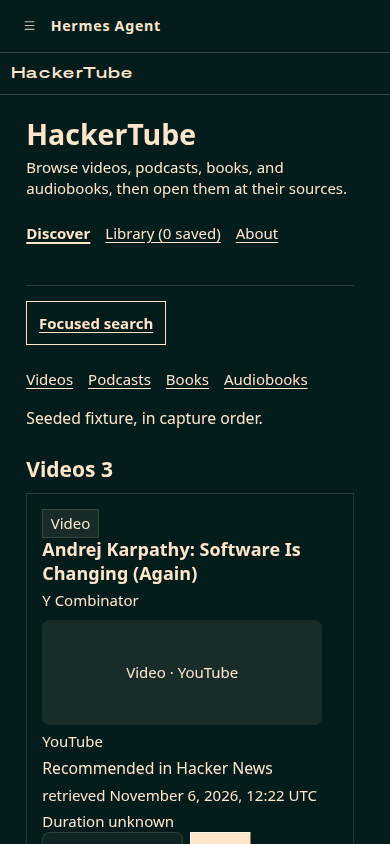
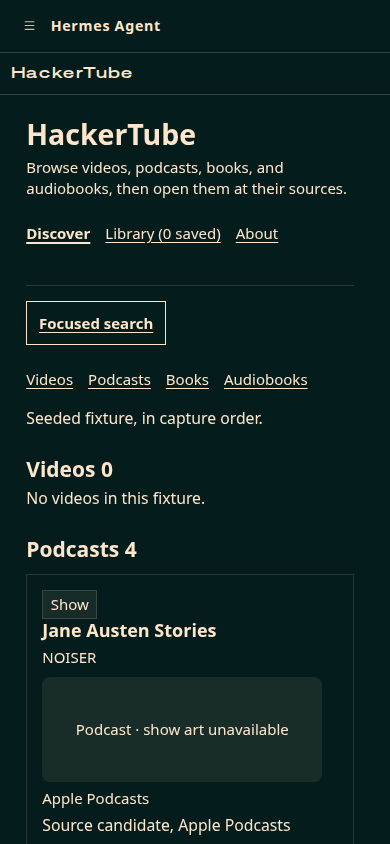
Replace dashboard receipts for the empty Videos section
Re-shoot the Hermes v0.23.0 walk after the be50886 fixture. Task 3.1 stays unchecked until the catalog package is wired in.

Changed region(s): [[0.0615, 0.5545, 0.7692, 0.8009], [0.0923, 0.8626, 0.8, 1.0]]

diff --git a/openspec/changes/hackertube-v1/verification.md b/openspec/changes/hackertube-v1/verification.md
@@ -17,7 +17,7 @@ Checked November 5, 2026 on the box with Node.js v24.22.1, OpenSpec 1.16.0, and 
 | Coverage checker fixtures | Missing PRD ID, dangling scenario, deferred P0, missing post-demo subset, non-P0 post-demo, unmapped scenario, partial subset under whole-row post-demo status, demo row deferring all scenarios, duplicate subset entry, out-of-row subset entry, missing subset reason, non-array subset, stale `specified` status, and reason without post-demo scenarios all rejected; the valid mixed-disposition R04 mapping accepted | Pass for 14 error paths and 1 positive fixture |
 | Script syntax | `python3 -m py_compile scripts/check_spec_coverage.py scripts/check_spec_coverage_fixtures.py` exited 0 | Pass |
 | Diff whitespace | `git diff --check` exited 0 | Pass |
-| Implementation progress | As of 2026-11-06, tasks 1.1, 1.2, 1.4, and 3.1 have receipts. Every other implementation task is open. | Dashboard page added. Search execution, ranking, and library persistence remain open. |
+| Implementation progress | As of 2026-11-06, tasks 1.1, 1.2, and 1.4 are checked. Task 3.1 has a fixture receipt and stays unchecked until the catalog package is wired. | Dashboard page reads the local fixture. Search execution, ranking, and library persistence remain open. |
 
 The machine-readable strict validation output is saved in planning-validation.json. Traceability.json maps the PRD IDs to scenario IDs. Its `demo` and `post-demo` statuses describe planning scope, not implementation results. Every delivery-mapped row has an explicit `post_demo_scenarios` array, including `[]` when all its scenarios remain in the demo. A `demo` row has at least one demo scenario. A `post-demo` row defers every mapped scenario. The checks do not establish runtime correctness, recommendation quality, source rights, or hackathon eligibility.
 
@@ -181,18 +181,18 @@ Tasks 1.1, 1.2, and 1.4 have receipts below. The other scenarios have no impleme
 |---|---|
 | Date | 2026-11-06 |
 | Host | Hermes Agent v0.23.0 (2026.9.24), commit `2bd378ed1b8d6bf2192cb26e0a55ff3091e6bd19`, Python 3.14.10, disposable profile `HERMES_HOME=/tmp/ht-profile` |
-| Scenarios | UI01, UI02, UI03, UI04, UI05, and UI06 pass on the running web dashboard. SEARCH01 is not executed. LIB02 persistence is not implemented. FEED ranking is not implemented. |
-| Procedure | Symlink `hackertube/` into the disposable profile, `hermes plugins validate hackertube --install-deps`, `hermes plugins enable hackertube`, `hermes dashboard --host 127.0.0.1 --port 9119 --no-open --skip-build`. Playwright drives Chromium at 1280x720 against `http://127.0.0.1:9119/hackertube`. The walk uses Tab, Shift+Tab, type, Enter, and Escape only. Axe runs on `.hackertube`. |
-| Result | Pass for UI01 through UI06. See the scenario notes below. |
+| Scenarios | UI01, UI02, UI03, UI04, UI05, and UI06 pass on the running web dashboard against the be50886 fixture. SEARCH01 is not executed. LIB02 persistence is not implemented. FEED ranking is not implemented. The task checkbox stays open until `hackertube_core` replaces this fixture. |
+| Procedure | Symlink `hackertube/` into the disposable profile, `hermes plugins validate hackertube --install-deps`, `hermes plugins enable hackertube`, restart `hermes dashboard --host 127.0.0.1 --port 9119 --no-open --skip-build`. Playwright drives Chromium at 1280x720 against `http://127.0.0.1:9119/hackertube`. The walk uses Tab, Shift+Tab, type, Enter, and Escape only. Axe runs on `.hackertube`. |
+| Result | Pass for UI01 through UI06 on this fixture. Task 3.1 remains unchecked. See the scenario notes below. |
 | Artifacts | [docs/receipts/dashboard/](../../../docs/receipts/dashboard/) |
 
 UI01. The host nav link `HackerTube` points at `/hackertube`. After `location.reload` the page heading is `HackerTube`. Screenshot: [02-after-reload.png](../../../docs/receipts/dashboard/02-after-reload.png).
 
-UI02. Videos 3, Podcasts 4, Books 4, and Audiobooks 4 render from the local fixture. There is no Hacker News card. Screenshots: [03-videos.png](../../../docs/receipts/dashboard/03-videos.png), [04-podcasts.png](../../../docs/receipts/dashboard/04-podcasts.png), [05-books.png](../../../docs/receipts/dashboard/05-books.png), [06-audiobooks.png](../../../docs/receipts/dashboard/06-audiobooks.png).
+UI02. Videos shows `Videos 0` and `No videos in this fixture.` Stored YouTube rows are ids and watch links in `unavailable_videos`, and the page does not render them as cards. Podcasts 4, Books 4, and Audiobooks 4 render from the fixture. There is no Hacker News card. Screenshots: [03-videos.png](../../../docs/receipts/dashboard/03-videos.png), [04-podcasts.png](../../../docs/receipts/dashboard/04-podcasts.png), [05-books.png](../../../docs/receipts/dashboard/05-books.png), [06-audiobooks.png](../../../docs/receipts/dashboard/06-audiobooks.png).
 
-UI03. The README credit, the About view, and [docs/marketplace-description.md](../../../docs/marketplace-description.md) name Andrej Karpathy and link to `https://karpathy.bearblog.dev/hacker-tube/`. About also says this is an independent Hermes adaptation. The credit is in the first viewport at 1280x720. Screenshot: [11-about.png](../../../docs/receipts/dashboard/11-about.png).
+UI03. The README credit, the About view, and [docs/marketplace-description.md](../../../docs/marketplace-description.md) name Andrej Karpathy and link to `https://karpathy.bearblog.dev/hacker-tube/`. About also says this is an independent Hermes adaptation. About names podcasts, books, and audiobooks, and does not say the page shows videos from YouTube. The credit is in the first viewport at 1280x720. Screenshot: [11-about.png](../../../docs/receipts/dashboard/11-about.png).
 
-UI04. Keyboard activation of Open at source opened `https://www.youtube.com/watch?v=LCEmiRjPEtQ`. The dashboard contained no `video`, `audio`, or `iframe`.
+UI04. Keyboard activation of Open at source opened `https://podcasts.apple.com/us/podcast/jane-austen-stories/id1840669662?uo=4`. The dashboard contained no `video`, `audio`, or `iframe`.
 
 UI05. With `?ht_unsafe=1` the page shows the refusal text for `javascript:alert(1)` and `https://127.0.0.1/private` and renders no link with those destinations. The same `destinationDecision` function gates every card. The default page does not show this check. Screenshot: [13-unsafe.png](../../../docs/receipts/dashboard/13-unsafe.png).
 
@@ -206,8 +206,8 @@ Ran 2 tests in 0.002s
 OK
 
 node --test tests/test_dashboard_page.js
-ℹ tests 11
-ℹ pass 11
+ℹ tests 12
+ℹ pass 12
 ℹ fail 0
 
 python3 scripts/check_spec_coverage.py
@@ -232,7 +232,7 @@ Not done in this task, and not claimed by the checkbox:
 
 - Focused search does not call a model, a search provider, or any host outside the dashboard. Submitting Search only reveals the results area. Tasks 4.1 and 4.2 own execution. During the walk, Search added no new network hosts.
 - Save, dismiss, and opened state live in the page visit. Reload clears them. Task 2.2 owns persistence. Dismiss does not remove a card. Task 3.2 owns ranking and feed exclusion.
-- The catalog is the local fixture behind `catalog_adapter.py`. It is not an import of `hackertube_core`. Book and audiobook covers are hotlinked to Open Library and LibriVox (`covers.openlibrary.org` and `archive.org`). YouTube and Apple art stay text fallbacks. Those image requests are not paid model or search calls, and Reddit was not called.
+- The catalog is the local fixture behind `catalog_adapter.py`, copied from pull request #3 at `be5088629f804239c96c891b23881366f416a6c5`. It is not an import of `hackertube_core`. Open Library book covers are hotlinked and the browser follows those URLs to cover files on archive.org. Audiobook covers and Apple artwork stay text fallbacks. Those image requests are not paid model or search calls, and Reddit was not called. Hacker News evidence in this fixture is not attached to a card. A unit test checks that an endorsement line stays on the item id it names.
 
 ## Release measurements
 

diff --git a/openspec/changes/hackertube-v1/tasks.md b/openspec/changes/hackertube-v1/tasks.md
@@ -18,7 +18,7 @@ Tasks 1.1, 1.2, and 1.4 are complete. The other implementation tasks are not. Gr
 
 ## 3. Deliver the dashboard and local discovery
 
-- [x] 3.1 Build the supported web page, four sections, library, About view, and source-opening controls. Verify UI01 through UI06 in the real web dashboard with a keyboard for the six-step cut and record accessibility evidence. Add Karpathy credit to the README, About view, and prepared marketplace description. Demo.
+- [ ] 3.1 Build the supported web page, four sections, library, About view, and source-opening controls. Verify UI01 through UI06 in the real web dashboard with a keyboard for the six-step cut and record accessibility evidence. Add Karpathy credit to the README, About view, and prepared marketplace description. Demo.
 - [ ] 3.2 Implement prepared-feed ranking against the seeded catalog and basic feedback exclusions. Verify FEED01 through FEED07 with a fixed catalog. FEED08 strict duration filtering moves to task 6.3. Document the ranking policy and its limited subject coverage. Demo.
 - [ ] 3.3 Instrument request boundaries and verify zero paid calls across ordinary browsing, local reranking, library operations, and reopening. Record FEED04, PREF08, JOB02, and JOB04 receipts. Demo.
 

diff --git a/README.md b/README.md
@@ -16,4 +16,4 @@ The Hermes host probe is in [docs/feasibility.md](docs/feasibility.md). The inst
 
 The [product requirements document](docs/PRD.md) records the agreed scope, acceptance criteria, and remaining technical investigations.
 
-The [OpenSpec workflow](openspec/README.md) guides development. Start with the [V1 proposal](openspec/changes/hackertube-v1/proposal.md), then read the capability specs, design, and tasks. Tasks 1.1, 1.2, 1.4, and 3.1 are checked. The other implementation tasks remain unchecked.
+The [OpenSpec workflow](openspec/README.md) guides development. Start with the [V1 proposal](openspec/changes/hackertube-v1/proposal.md), then read the capability specs, design, and tasks. Tasks 1.1, 1.2, and 1.4 are checked. Task 3.1 stays unchecked until the merged catalog package replaces the local fixture. The other implementation tasks remain unchecked.

diff --git a/openspec/README.md b/openspec/README.md
@@ -5,7 +5,7 @@ HackerTube uses [OpenSpec](https://github.com/Fission-AI/OpenSpec) and its built
 ## Authority and current state
 
 - `docs/PRD.md` records product intent and confirmed scope.
-- `openspec/changes/hackertube-v1/` contains proposed behavior, design, and tasks. Tasks 1.1, 1.2, 1.4, and 3.1 are checked. The other implementation tasks are not.
+- `openspec/changes/hackertube-v1/` contains proposed behavior, design, and tasks. Tasks 1.1, 1.2, and 1.4 are checked. Task 3.1 stays unchecked until the merged catalog package replaces the local fixture. The other implementation tasks are not.
 - `openspec/specs/` holds delivered behavior after a verified change is archived. It is empty because the host shell has not been archived as a delivered capability.
 
 A complete artifact graph means the documents exist, not that implementation or integration checks passed.
